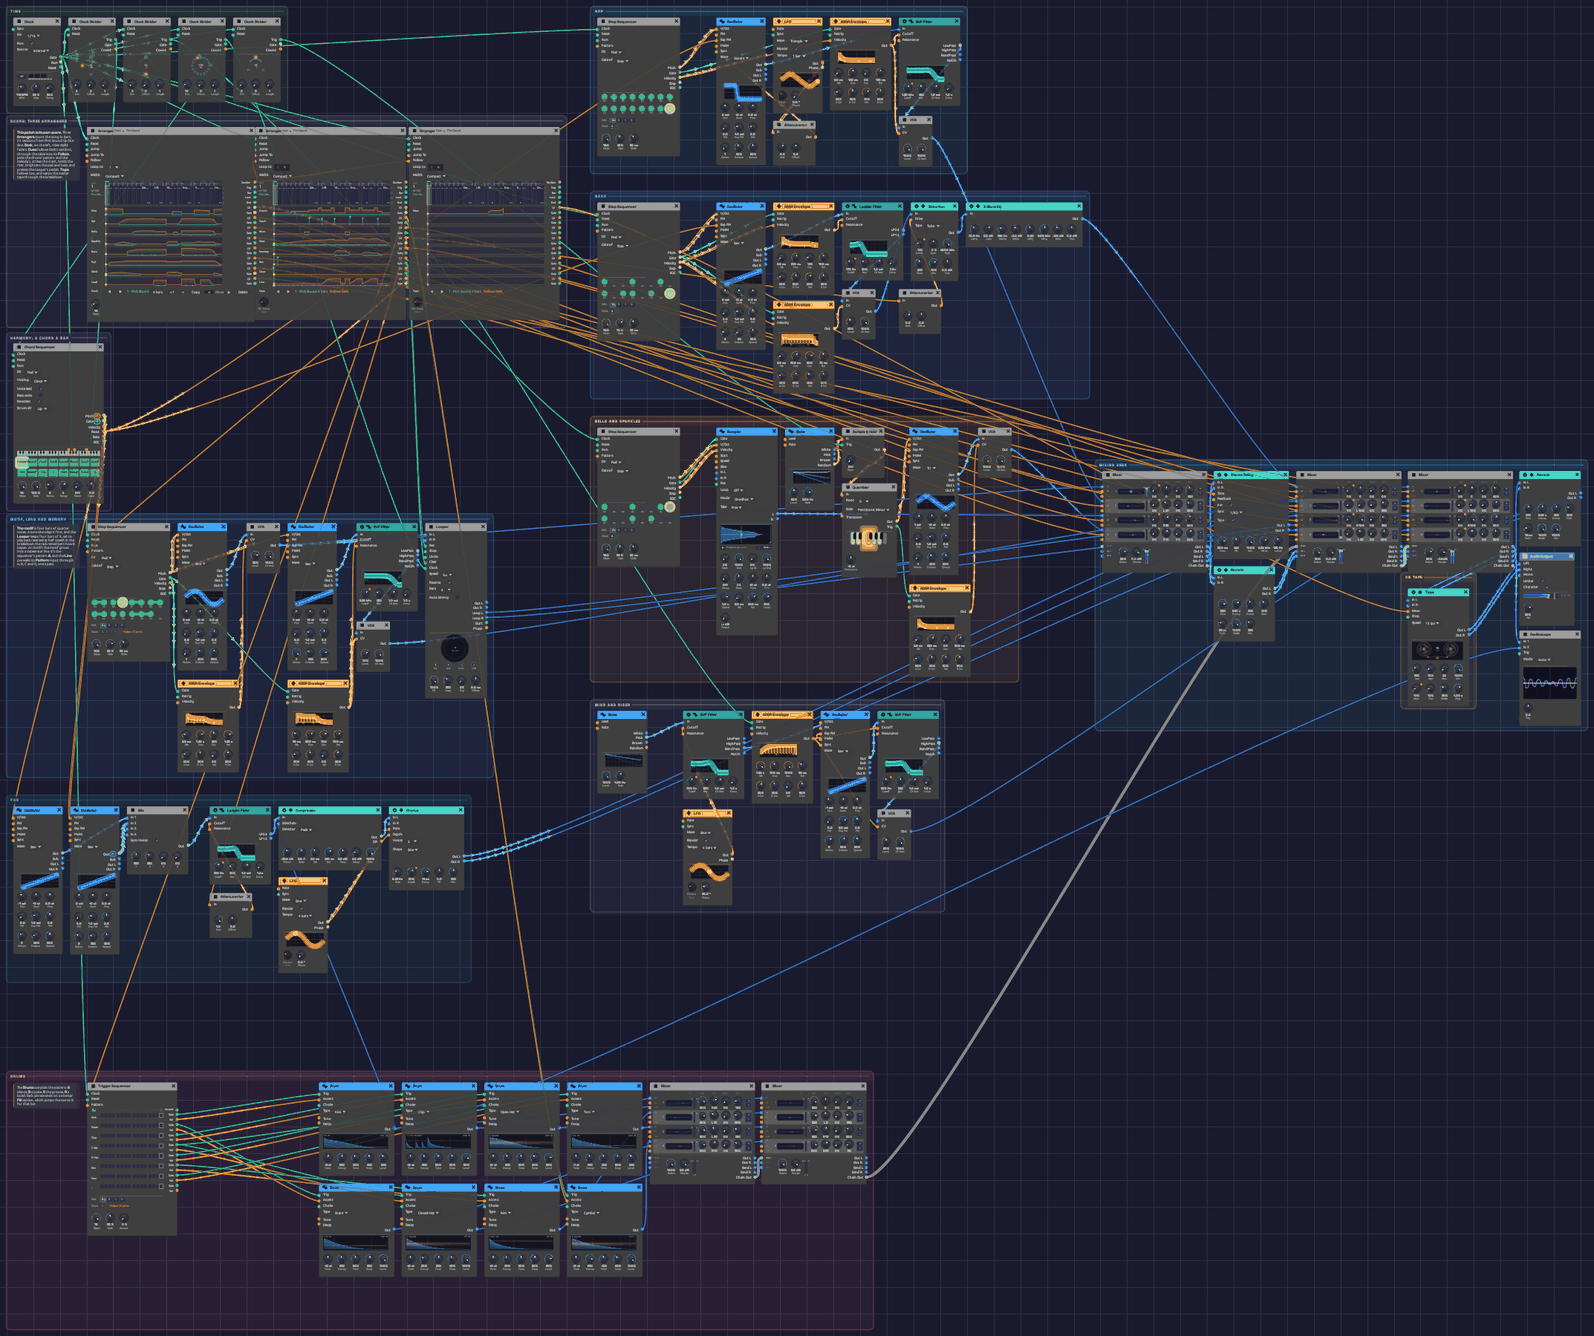
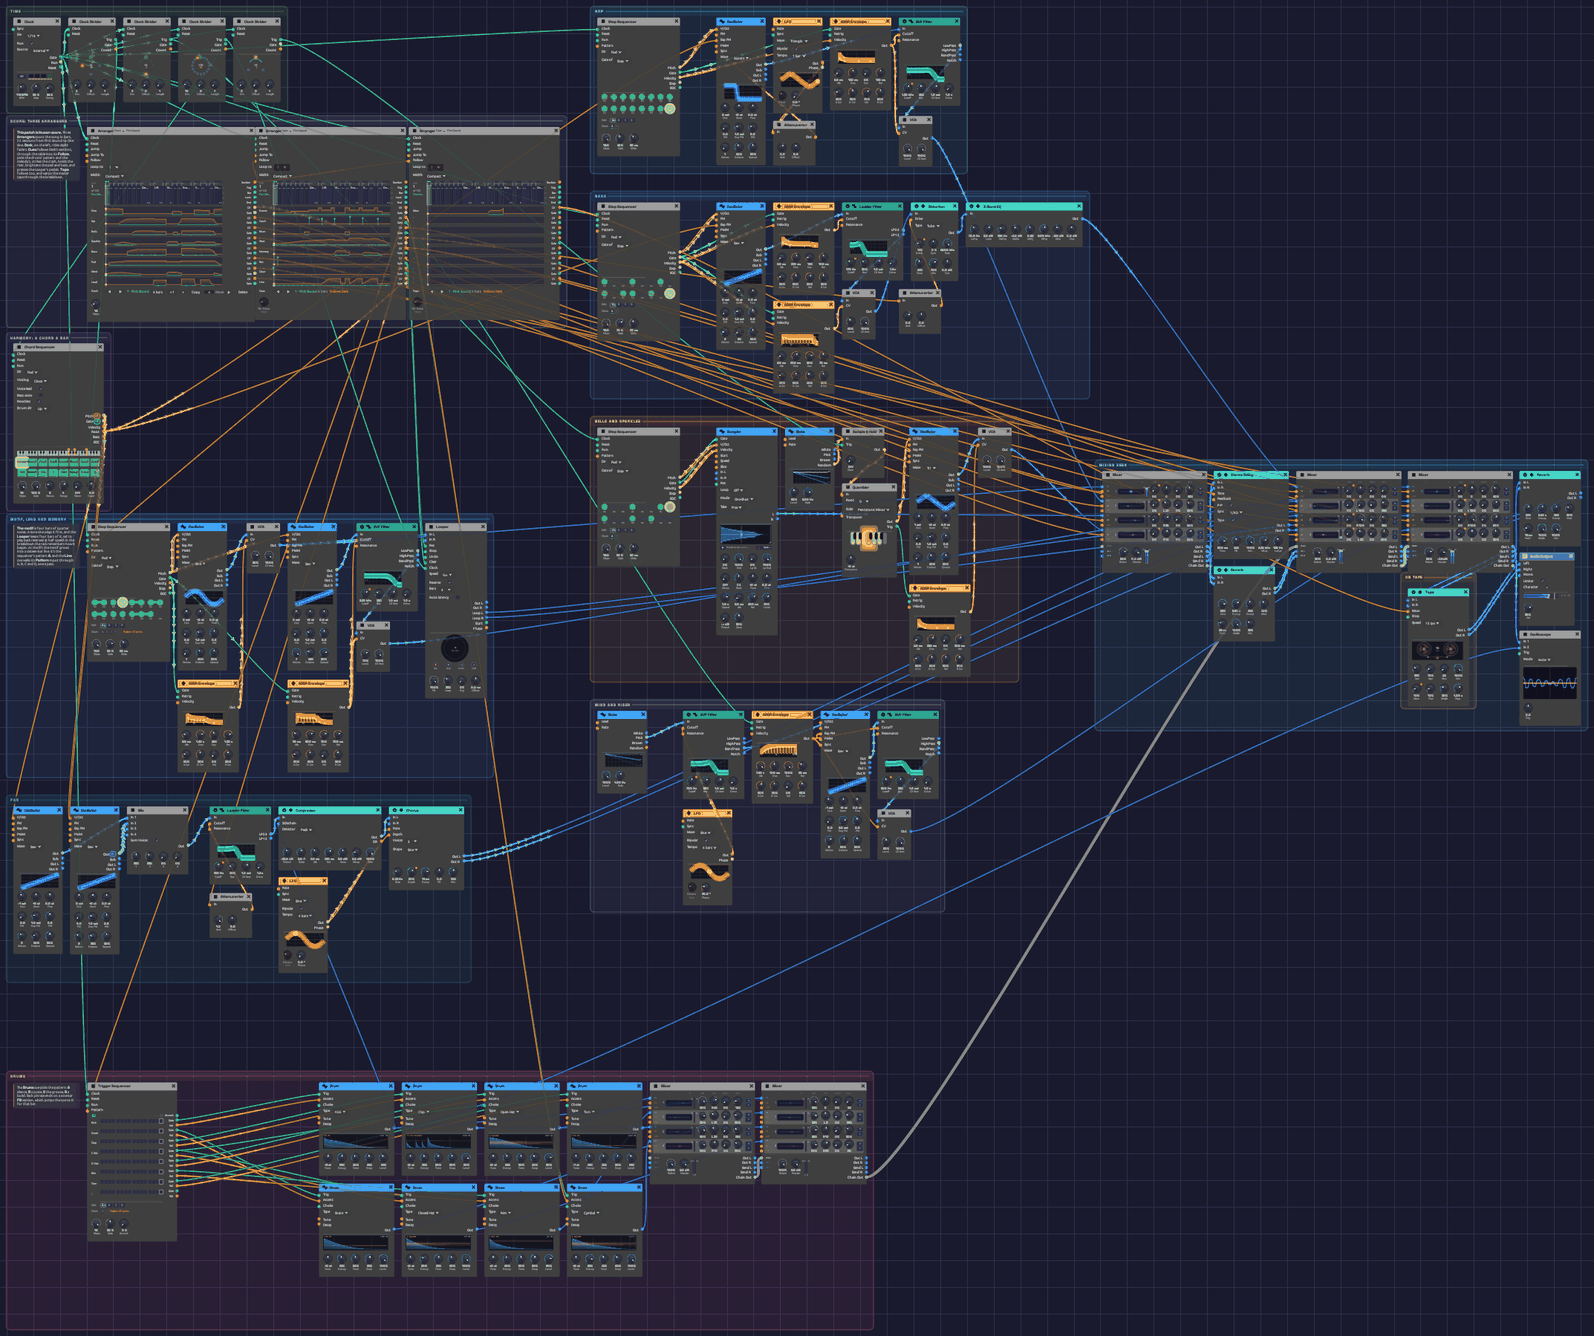
[Phase 14] Trigger Sequencer: a Run input, as the Step Sequencer has
- Run (Gate, high when unpatched) between Reset and Pattern: while it's
  low, clocks are ignored and the playhead holds its step, so a stop of
  whole bars picks the Chain up as though those bars never came
- Every clock still measures the step and ends the last step's ratchets,
  running or not; a step struck just before a stop plays its roll out
- Reset while stopped: the first clock back plays step 1
- Manual: the Run row and a Stop and start section in the Step
  Sequencer's words, with the Arranger-lane ending the issue asked for
- Snapshot and the three recipe images with a Trigger Sequencer re-shot

Closes #181

Changed region(s): [[0.0922, 0.7979, 0.2152, 0.89], [0.0615, 0.89, 0.0922, 0.9513]]

diff --git a/src/modules/trigger_sequencer.rs b/src/modules/trigger_sequencer.rs
@@ -181,9 +181,10 @@ impl Lane {
 /// # Ports
 ///
 /// **Inputs:** Clock (each rising edge plays the next step), Reset (the next
-/// clock plays step 1 of the chain's first pattern) and Pattern (CV that
-/// picks the pattern for each new bar, in four equal zones of 0 to 1, in
-/// place of the Chain).
+/// clock plays step 1 of the chain's first pattern), Run (steps advance only
+/// while it's high; unpatched, it runs) and Pattern (CV that picks the
+/// pattern for each new bar, in four equal zones of 0 to 1, in place of the
+/// Chain).
 ///
 /// **Outputs:** Accent (a gate on accented steps), then a Gate and a Vel for
 /// each lane. Vel holds the last hit's velocity, raised on accented steps.
@@ -225,7 +226,8 @@ pub struct TriggerSequencer {
 impl TriggerSequencer {
     pub const PORT_CLOCK: usize = 0;
     pub const PORT_RESET: usize = 1;
-    pub const PORT_PATTERN: usize = 2;
+    pub const PORT_RUN: usize = 2;
+    pub const PORT_PATTERN: usize = 3;
     /// Output index of Accent. Lane `l`'s Gate is `1 + 2l`, its Vel `2 + 2l`.
     pub const OUT_ACCENT: usize = 0;
 
@@ -265,6 +267,8 @@ impl TriggerSequencer {
                 .describe("Each rising edge plays the next step; patch a Clock gate here"),
             PortDefinition::input_with_default("reset", "Reset", SignalType::Gate, 0.0)
                 .describe("A rising edge starts over: the next clock plays step 1 of the chain's first pattern"),
+            PortDefinition::input_with_default("run", "Run", SignalType::Gate, 1.0)
+                .describe("Steps only advance while high; runs when unpatched"),
             PortDefinition::input_with_default("pattern", "Pattern", SignalType::Control, 0.0)
                 .describe("Picks the pattern for each new bar in place of the Chain: 0 to 0.25 is A, then B, C and D"),
             PortDefinition::output("accent", "Accent", SignalType::Gate)
@@ -503,6 +507,7 @@ impl DspModule for TriggerSequencer {
         context: &ProcessContext,
     ) {
         let sample = |port: usize, i: usize| inputs.get(port).and_then(|buf| buf.samples.get(i).copied()).unwrap_or(0.0);
+        let run_in = connected_input(inputs, Self::PORT_RUN);
         let pattern_in = connected_input(inputs, Self::PORT_PATTERN);
         self.pattern_cv = pattern_in.is_some();
 
@@ -513,6 +518,7 @@ impl DspModule for TriggerSequencer {
             let reset_high = sample(Self::PORT_RESET, i) > Self::GATE_THRESHOLD;
             let reset_rising = reset_high && !self.prev_reset;
             self.prev_reset = reset_high;
+            let running = run_in.is_none_or(|buf| buf.samples.get(i).copied().unwrap_or(1.0) > Self::GATE_THRESHOLD);
             let cv = pattern_in.map(|buf| buf.samples.get(i).copied().unwrap_or(0.0));
 
             if reset_rising {
@@ -524,12 +530,16 @@ impl DspModule for TriggerSequencer {
                 }
             }
 
+            // Every clock edge measures the step, and ends the last step's
+            // ratchets, running or not. Stopped, the sequencer stays on its
+            // step and plays nothing
             if clock_rising {
                 self.timer.clock();
-                // A step's ratchets end with it
                 for lane in &mut self.lanes {
                     lane.ratchets_left = 0;
                 }
+            }
+            if clock_rising && running {
                 self.advance(params, cv);
                 let step_samples = self.step_samples(context);
                 self.play_step(params, step_samples);
@@ -661,6 +671,12 @@ mod tests {
     /// 1 ms pulses, with optional reset times and Pattern CV, and returns
     /// every output.
     fn run(params: &[f32], ms: usize, period: usize, resets: &[usize], pattern_cv: Option<f32>) -> Vec<Vec<f32>> {
+        run_gated(params, ms, period, resets, pattern_cv, &[])
+    }
+
+    /// As [`run`], with Run patched and low over each `stops` range of ms.
+    /// With no stops, Run is left unpatched.
+    fn run_gated(params: &[f32], ms: usize, period: usize, resets: &[usize], pattern_cv: Option<f32>, stops: &[std::ops::Range<usize>]) -> Vec<Vec<f32>> {
         let mut seq = TriggerSequencer::new();
         seq.prepare(RATE, ms);
         let mut clock = SignalBuffer::gate(ms);
@@ -671,6 +687,16 @@ mod tests {
         for &t in resets {
             reset.samples[t] = 1.0;
         }
+        let run_gate = if stops.is_empty() {
+            SignalBuffer::unconnected(ms, SignalType::Gate)
+        } else {
+            let mut gate = SignalBuffer::gate(ms);
+            gate.samples.fill(1.0);
+            for stop in stops {
+                gate.samples[stop.clone()].fill(0.0);
+            }
+            gate
+        };
         let pattern = match pattern_cv {
             Some(cv) => {
                 let mut pattern = SignalBuffer::control(ms);
@@ -680,7 +706,7 @@ mod tests {
             None => SignalBuffer::unconnected(ms, SignalType::Control),
         };
         let mut outputs: Vec<SignalBuffer> = (0..1 + 2 * LANES).map(|_| SignalBuffer::control(ms)).collect();
-        seq.process(&[&clock, &reset, &pattern], &mut outputs, params, &ProcessContext::new(RATE, ms));
+        seq.process(&[&clock, &reset, &run_gate, &pattern], &mut outputs, params, &ProcessContext::new(RATE, ms));
         outputs.into_iter().map(|b| b.samples).collect()
     }
 
@@ -882,6 +908,53 @@ mod tests {
         let out = run(&params, 1000, 100, &[550], None);
         assert_eq!(rises(&out[1]), [0, 600]);
         assert_eq!(rises(&out[3]), [400]);
+    }
+
+    #[test]
+    fn run_low_holds_the_playhead_and_fires_nothing() {
+        let mut params = defaults();
+        for step in 0..4 {
+            set_step(&mut params, 0, 0, step, hit(100));
+            set_step(&mut params, 1, 1, step, hit(100));
+        }
+        set_chain(&mut params, "AB");
+        params[TriggerSequencer::PARAM_STEPS] = 4.0;
+        // A's bar, then Run is low for a whole bar, so B's bar comes after it
+        // as though those four clocks had never come
+        let out = run_gated(&params, 1600, 100, &[], None, &[400..800]);
+        assert_eq!(rises(&out[1]), [0, 100, 200, 300, 1200, 1300, 1400, 1500]);
+        assert_eq!(rises(&out[3]), [800, 900, 1000, 1100]);
+        assert!(out[0].iter().all(|&g| g == 0.0), "no accents were written");
+    }
+
+    #[test]
+    fn run_low_mid_bar_resumes_on_the_step_it_stopped_at() {
+        let mut params = defaults();
+        set_step(&mut params, 0, 0, 2, hit(100));
+        params[TriggerSequencer::PARAM_STEPS] = 4.0;
+        // Steps 1 and 2 play, three clocks are skipped, then step 3 plays
+        let out = run_gated(&params, 1000, 100, &[], None, &[150..450]);
+        assert_eq!(rises(&out[1]), [500, 900]);
+    }
+
+    #[test]
+    fn a_stop_lets_the_last_step_finish_its_ratchet() {
+        let mut params = defaults();
+        set_step(&mut params, 0, 0, 1, Step { ratchet: 4, ..hit(100) });
+        params[TriggerSequencer::PARAM_STEPS] = 4.0;
+        // Step 2's roll plays out in full, though Run drops halfway through
+        let out = run_gated(&params, 600, 100, &[], None, &[150..600]);
+        assert_eq!(rises(&out[1]), [100, 125, 150, 175]);
+    }
+
+    #[test]
+    fn reset_while_stopped_starts_over_when_run_comes_back() {
+        let mut params = defaults();
+        set_step(&mut params, 0, 0, 0, hit(100));
+        params[TriggerSequencer::PARAM_STEPS] = 4.0;
+        // Stopped on step 3, reset, and the first clock back plays step 1
+        let out = run_gated(&params, 1000, 100, &[350], None, &[250..600]);
+        assert_eq!(rises(&out[1]), [0, 600]);
     }
 
     #[test]

diff --git a/docs/src/modules/utilities/trigger-sequencer.md b/docs/src/modules/utilities/trigger-sequencer.md
@@ -15,6 +15,7 @@ Where the [Step Sequencer](./sequencer.md) plays a melody, one note at a time, t
 |------|-------------|-------------|
 | **Clock** | Gate (Green) | Each rising edge plays the next step |
 | **Reset** | Gate (Green) | A rising edge starts over: the next clock plays step 1 of the Chain's first pattern |
+| **Run** | Gate (Green) | Steps advance only while this is high. With nothing patched, the sequencer runs |
 | **Pattern** | Control (Orange) | Picks the pattern for each new bar in place of the Chain: 0 to 0.25 is A, 0.25 to 0.5 is B, then C, and D from 0.75 up |
 
 ## Outputs
@@ -99,6 +100,14 @@ An accented step raises the velocity of every lane that plays on it, part of the
 A lane left at its default follows the bar. Give a lane its own length and it loops that many steps however long the bar is. A lane 3 steps long against a 16-step bar plays a figure of three over a bar of four, and the two only line up again after 3 bars. Two lanes of 3 and 5 against 16 meet the bar again after 15 bars.
 
 The bar and every lane count the same clock, so they drift against each other only on purpose. **Reset** starts them all together again.
+
+### Stop and start
+
+Patch a gate into **Run** to pause the pattern in place. While Run is low, clocks are ignored and the sequencer stays on its current step. A step that played just before Run fell still plays out its ratchet. When Run comes back high, the next clock plays the step after the one it stopped on. Hold Run low for whole bars and the Chain picks up as though those bars never came.
+
+The [Clock](../modulation/clock.md)'s **Run** and **Reset** outputs are made for this. Patch them into **Run** and **Reset** and the pattern stops with the Clock and starts again from step 1 when it does, including when the Clock follows a DAW's MIDI clock and you press Play there.
+
+To let a song's last chord ring with no more hits, patch an [Arranger](./arranger.md) lane's **Gate** into **Run** and bring the lane to zero for the closing bars.
 
 ## How patches store it
 
